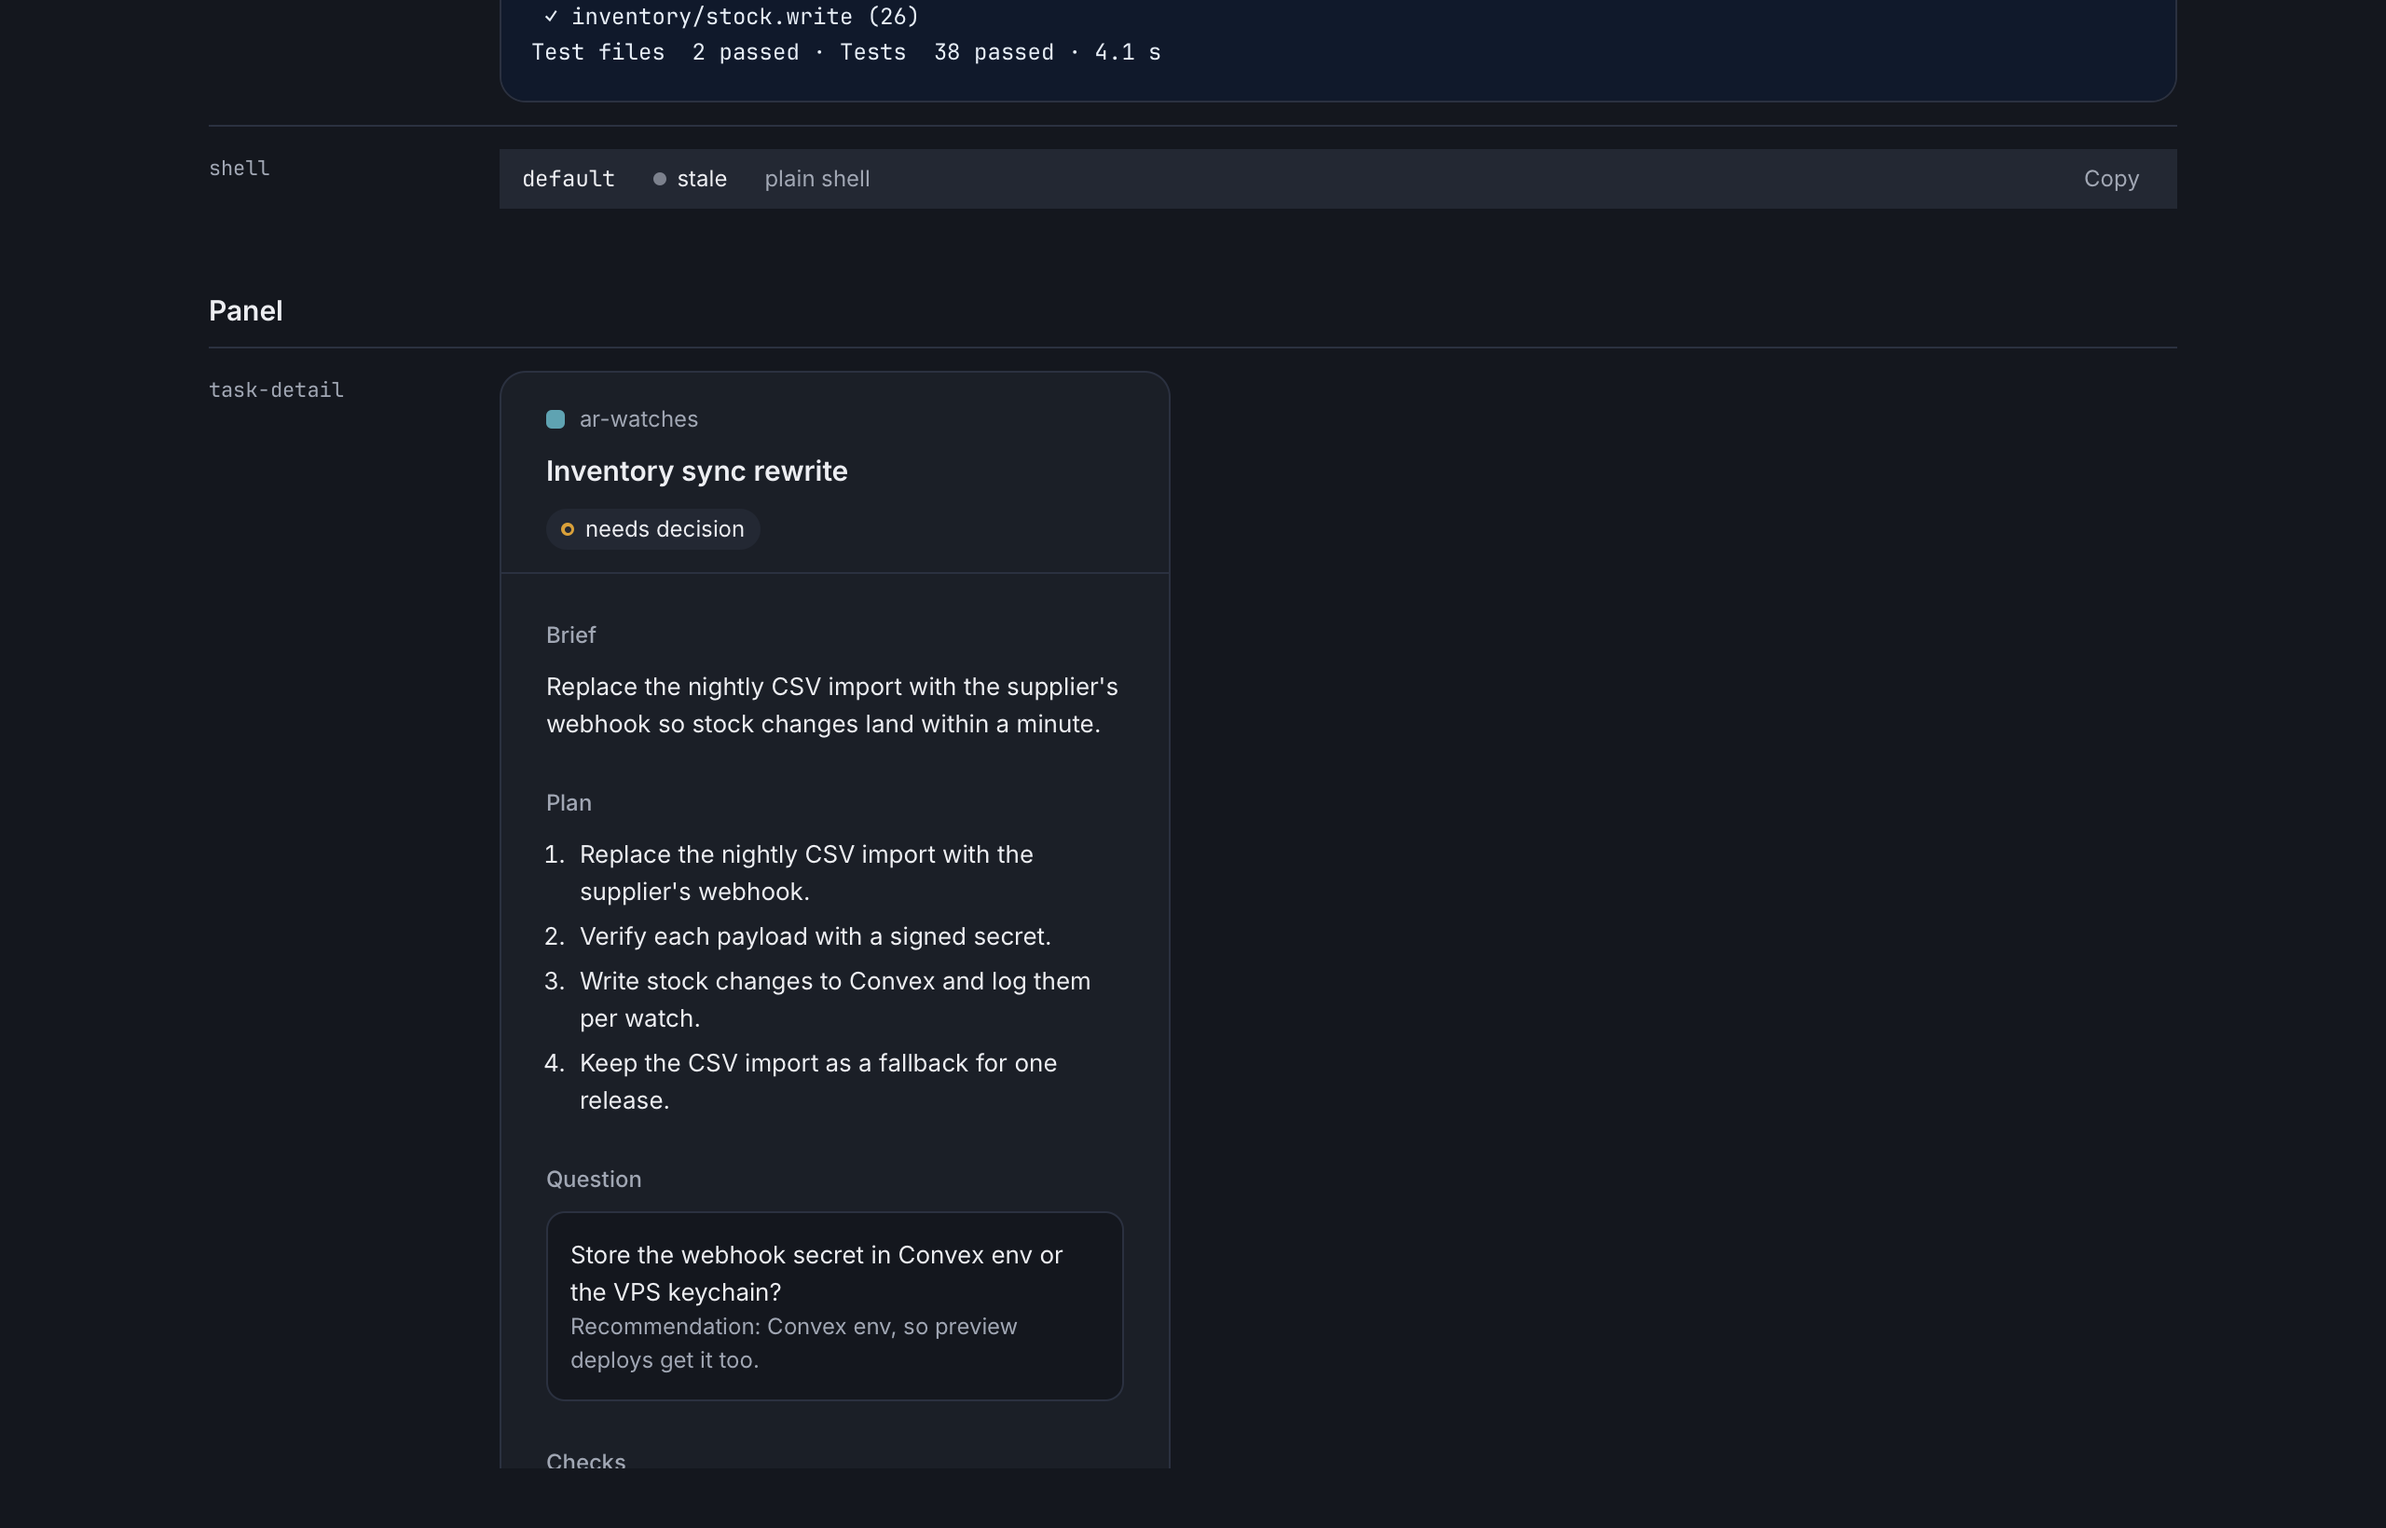
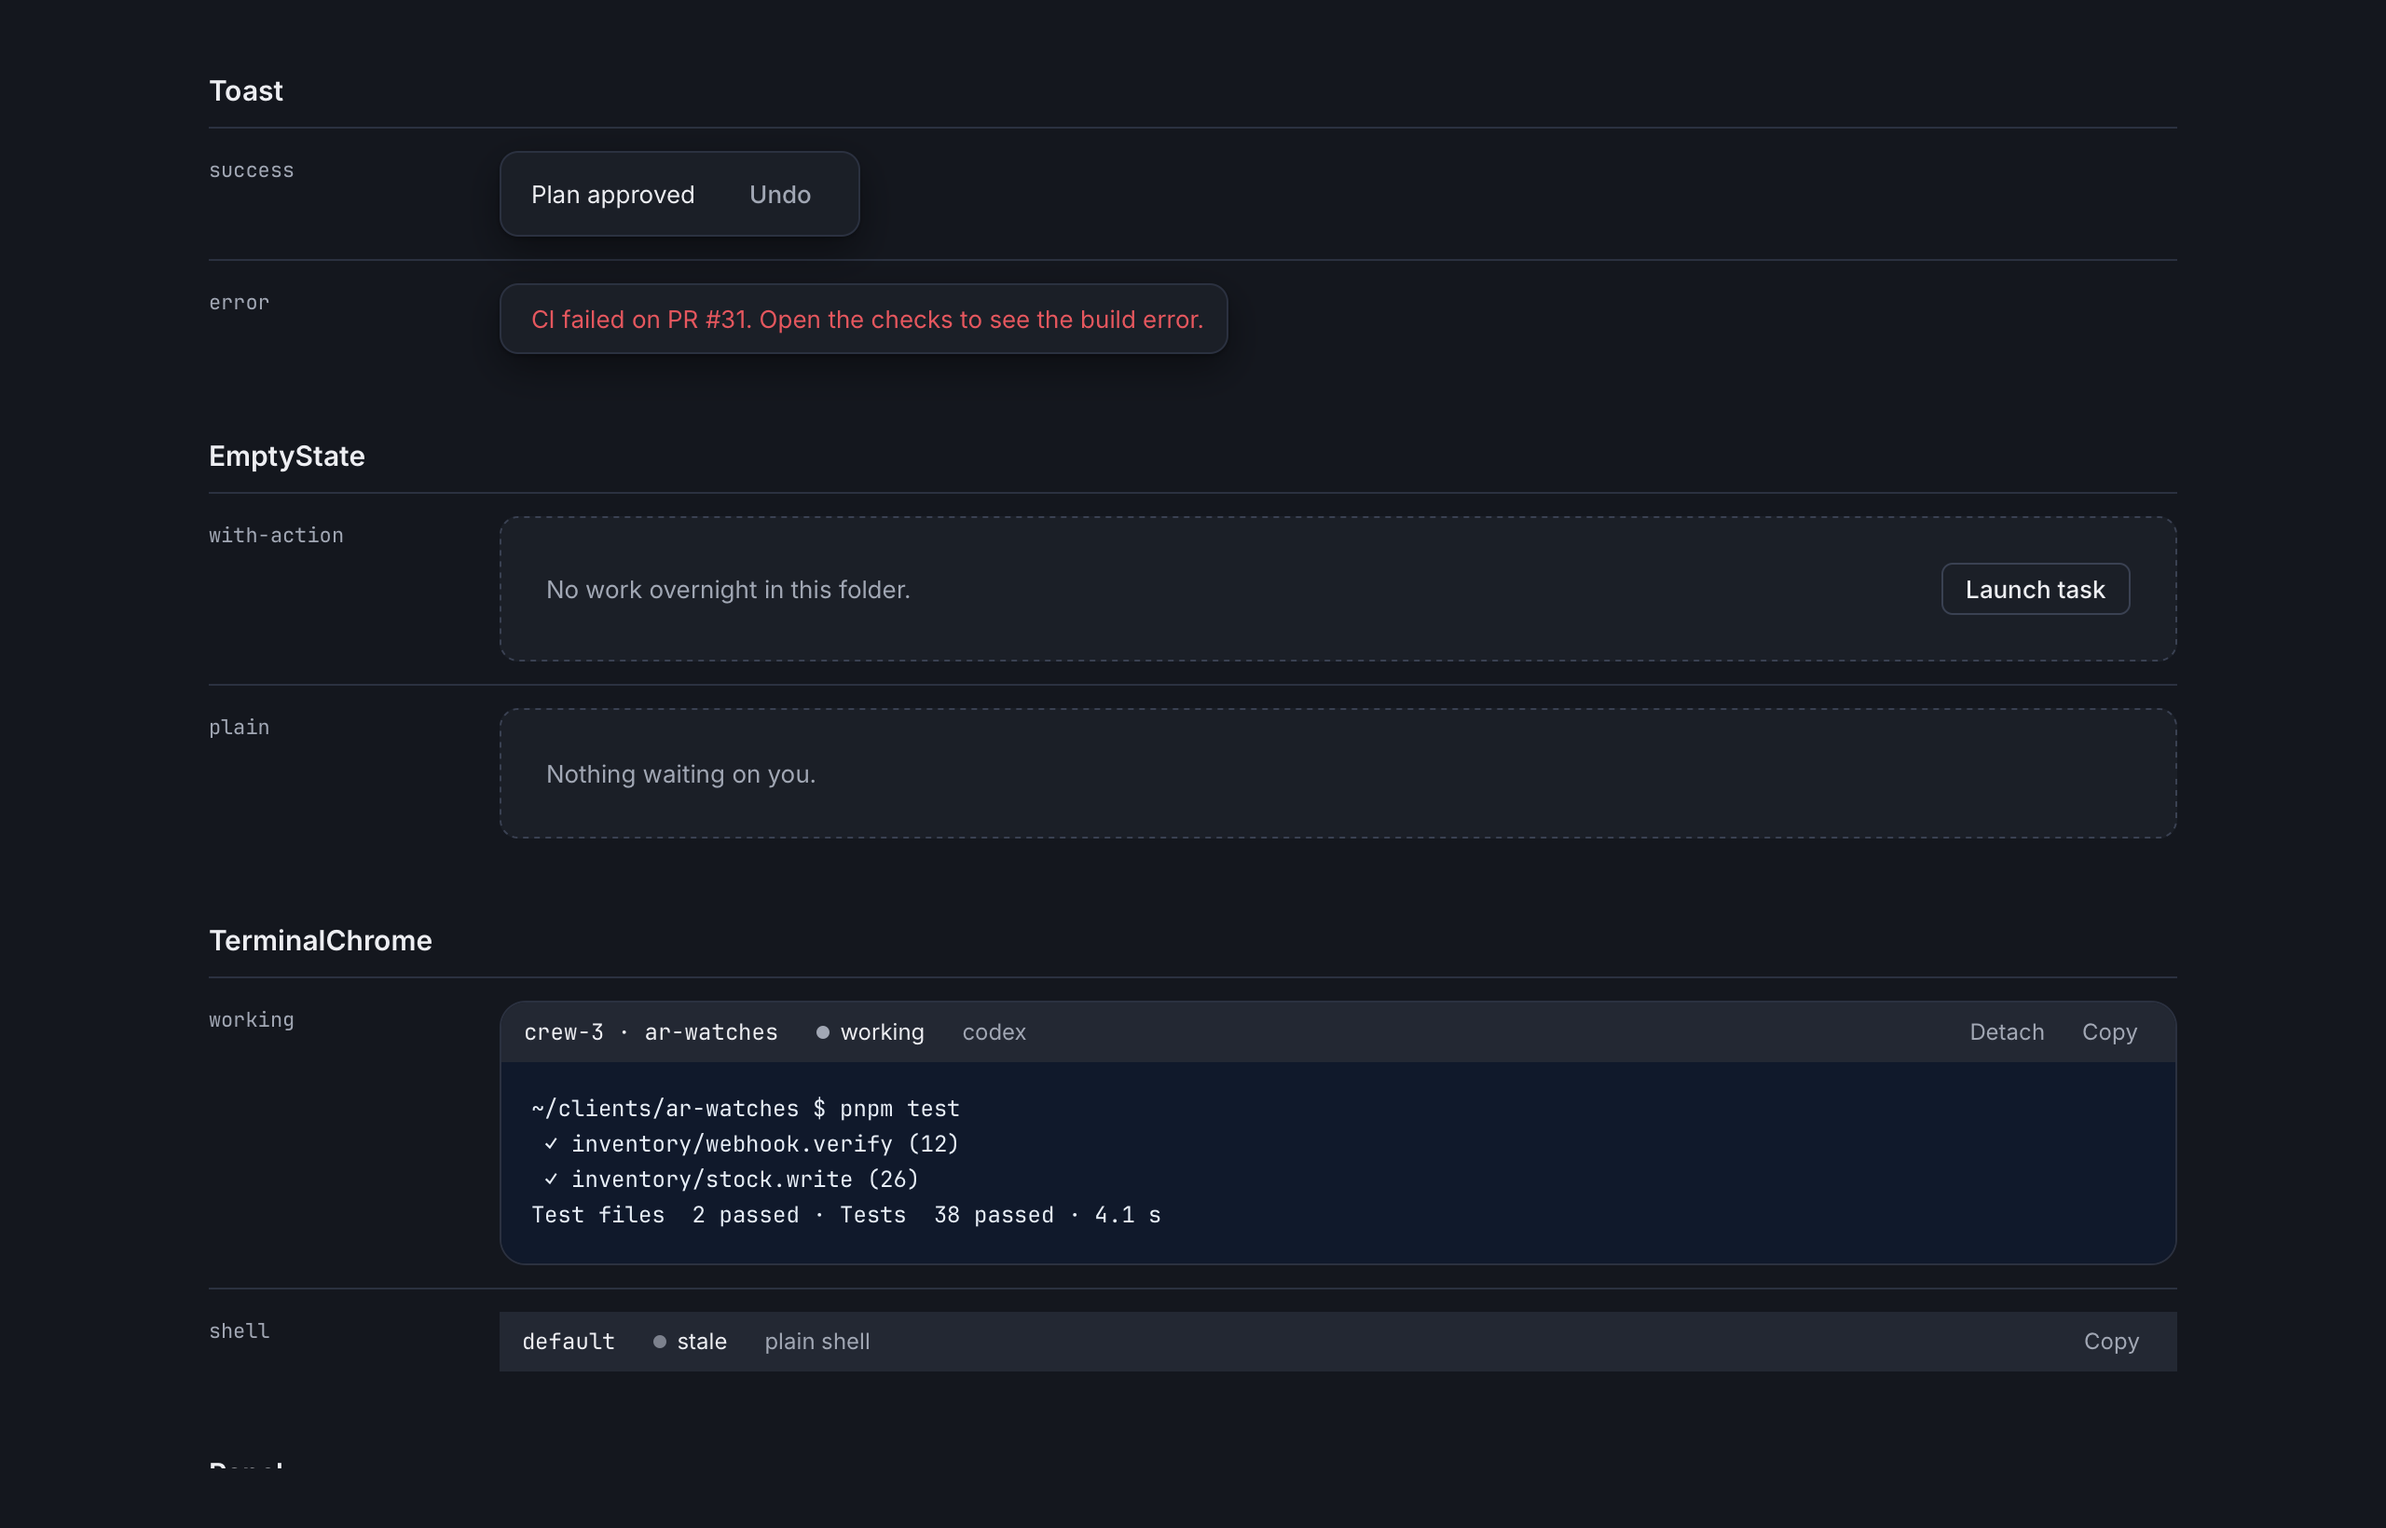
Tree changes: ship point 2 verified on the reader's tabs — all 26 e2e specs green alone, the pages redrawn
Rebased onto main at 6b754ee (the reader's layout's ship point 2, landed
first on the captain's word), feat/tree-changes-3 at dae41eb passed
bun run check (601 bun, 258 Rust, clippy clean) and then the full e2e,
run alone 19:52-20:37: all 26 specs green. The timing case's median that
run was 105 ms.

The stories' pages are redrawn with both builds' components, now 14 per
theme, and the Home, Settings and Usage screens with them. status.md
ticks slice 7. main waits for the captain's word, and the install waits
until after the first mate's build.

diff --git a/tasks/tree-changes/status.md b/tasks/tree-changes/status.md
@@ -19,7 +19,11 @@
   `bun run check` green (600 bun, 250 Rust); `tree-changes` 12 of 12, every reader spec and `stories` green, run alone
 - [x] Slice 6 · deleted files: the record's text, Copy and Download, the disabled menu items — 2026-09-24,
   `bun run check` green (600 bun, 252 Rust); `tree-changes` 13 of 13, every reader spec green, run alone
-- [ ] Slice 7 · the edges and the record: rescan, the log grep, the timings → ship point 2
+- [x] Slice 7 · the edges and the record: rescan, the log grep, the timings → ship point 2 — 2026-09-24, rebased onto
+  `6b754ee` (the reader's layout's ship point 2, landed first on the captain's word): `bun run check` green (601 bun,
+  258 Rust); `tree-changes` 15 of 15, the write-to-mark median 100 ms. **Ship point 2 verified on `dae41eb`**: the full
+  e2e alone, all 26 specs green (19:52–20:37). Draft PR #37. `main` waits for the captain's word; not installed — the
+  captain installs after the first mate's build
 
 ## Notes for a fresh session
 
